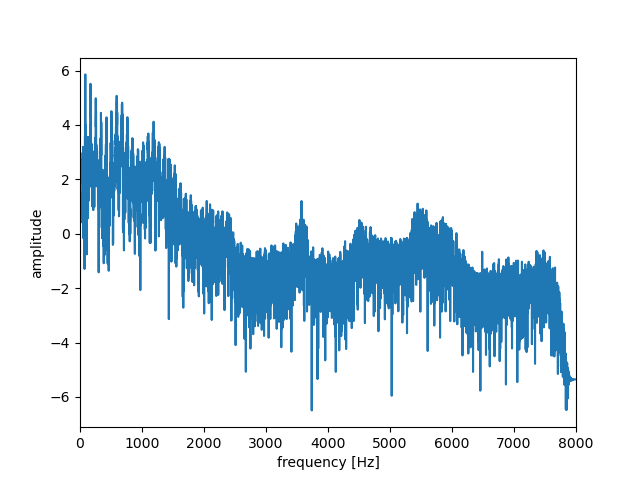
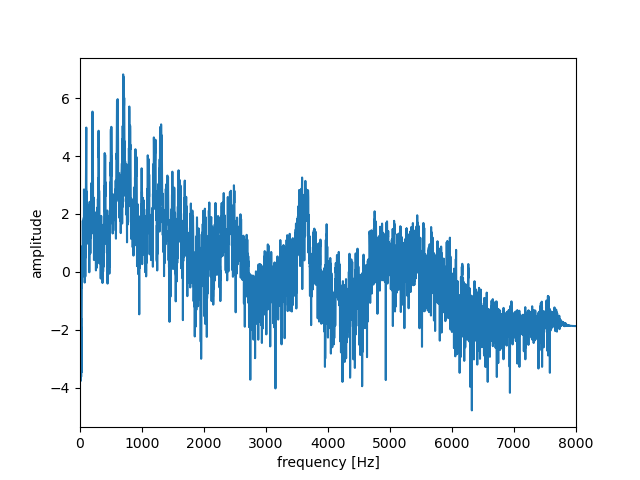
exer02 - re-did graphs for new audio

diff --git a/01_audio_recognition/02_plotting_spectrum/plot_spectrum.py b/01_audio_recognition/02_plotting_spectrum/plot_spectrum.py
@@ -14,17 +14,17 @@ import librosa
 SR = 16000
 
 # 音声ファイルの読み込み 
-# x, _ = librosa.load("aiueo_long.wav", sr=SR)
+# x, _ = librosa.load("../01_recording_aiueo/aiueo_long.wav", sr=SR)
 # audio for a
-# x, _ = librosa.load("aiueo_long.wav", sr=SR, offset=1.2, duration=1.0)
+# x, _ = librosa.load("../01_recording_aiueo/aiueo_long.wav", sr=SR, offset=0.7, duration=0.7)
 # audio for i
-# x, _ = librosa.load("aiueo_long.wav", sr=SR, offset=2.4, duration=1.0)
+# x, _ = librosa.load("../01_recording_aiueo/aiueo_long.wav", sr=SR, offset=1.8, duration=0.7)
 # audio for u
-# x, _ = librosa.load("aiueo_long.wav", sr=SR, offset=3.6, duration=1.0)
+# x, _ = librosa.load("../01_recording_aiueo/aiueo_long.wav", sr=SR, offset=2.8, duration=0.7)
 # audio for e
-# x, _ = librosa.load("aiueo_long.wav", sr=SR, offset=4.7, duration=1.0)
+# x, _ = librosa.load("../01_recording_aiueo/aiueo_long.wav", sr=SR, offset=3.7, duration=0.7)
 # audio for o
-x, _ = librosa.load("../01_recording_aiueo/aiueo_long.wav", sr=SR, offset=5.8, duration=1.0)
+x, _ = librosa.load("../01_recording_aiueo/aiueo_long.wav", sr=SR, offset=4.6, duration=0.7)
 
 
 # 高速フーリエ変換

diff --git a/01_audio_recognition/02_plotting_spectrum/plot_waveform.py b/01_audio_recognition/02_plotting_spectrum/plot_waveform.py
@@ -13,7 +13,7 @@ import librosa
 SR = 16000
 
 # 音 声 フ ァ イ ル の 読 み 込 み
-x, _ = librosa.load("aiueo_long.wav", sr=SR)
+x, _ = librosa.load("../01_recording_aiueo/aiueo_long.wav", sr=SR)
 
 # x に 波 形 デ ー タ が 保 存 さ れ る
 # 第 二 戻 り 値 は サ ン プ リ ン グ レ ー ト （ こ こ で は 必 要 な い の で _ と し て い る ）
